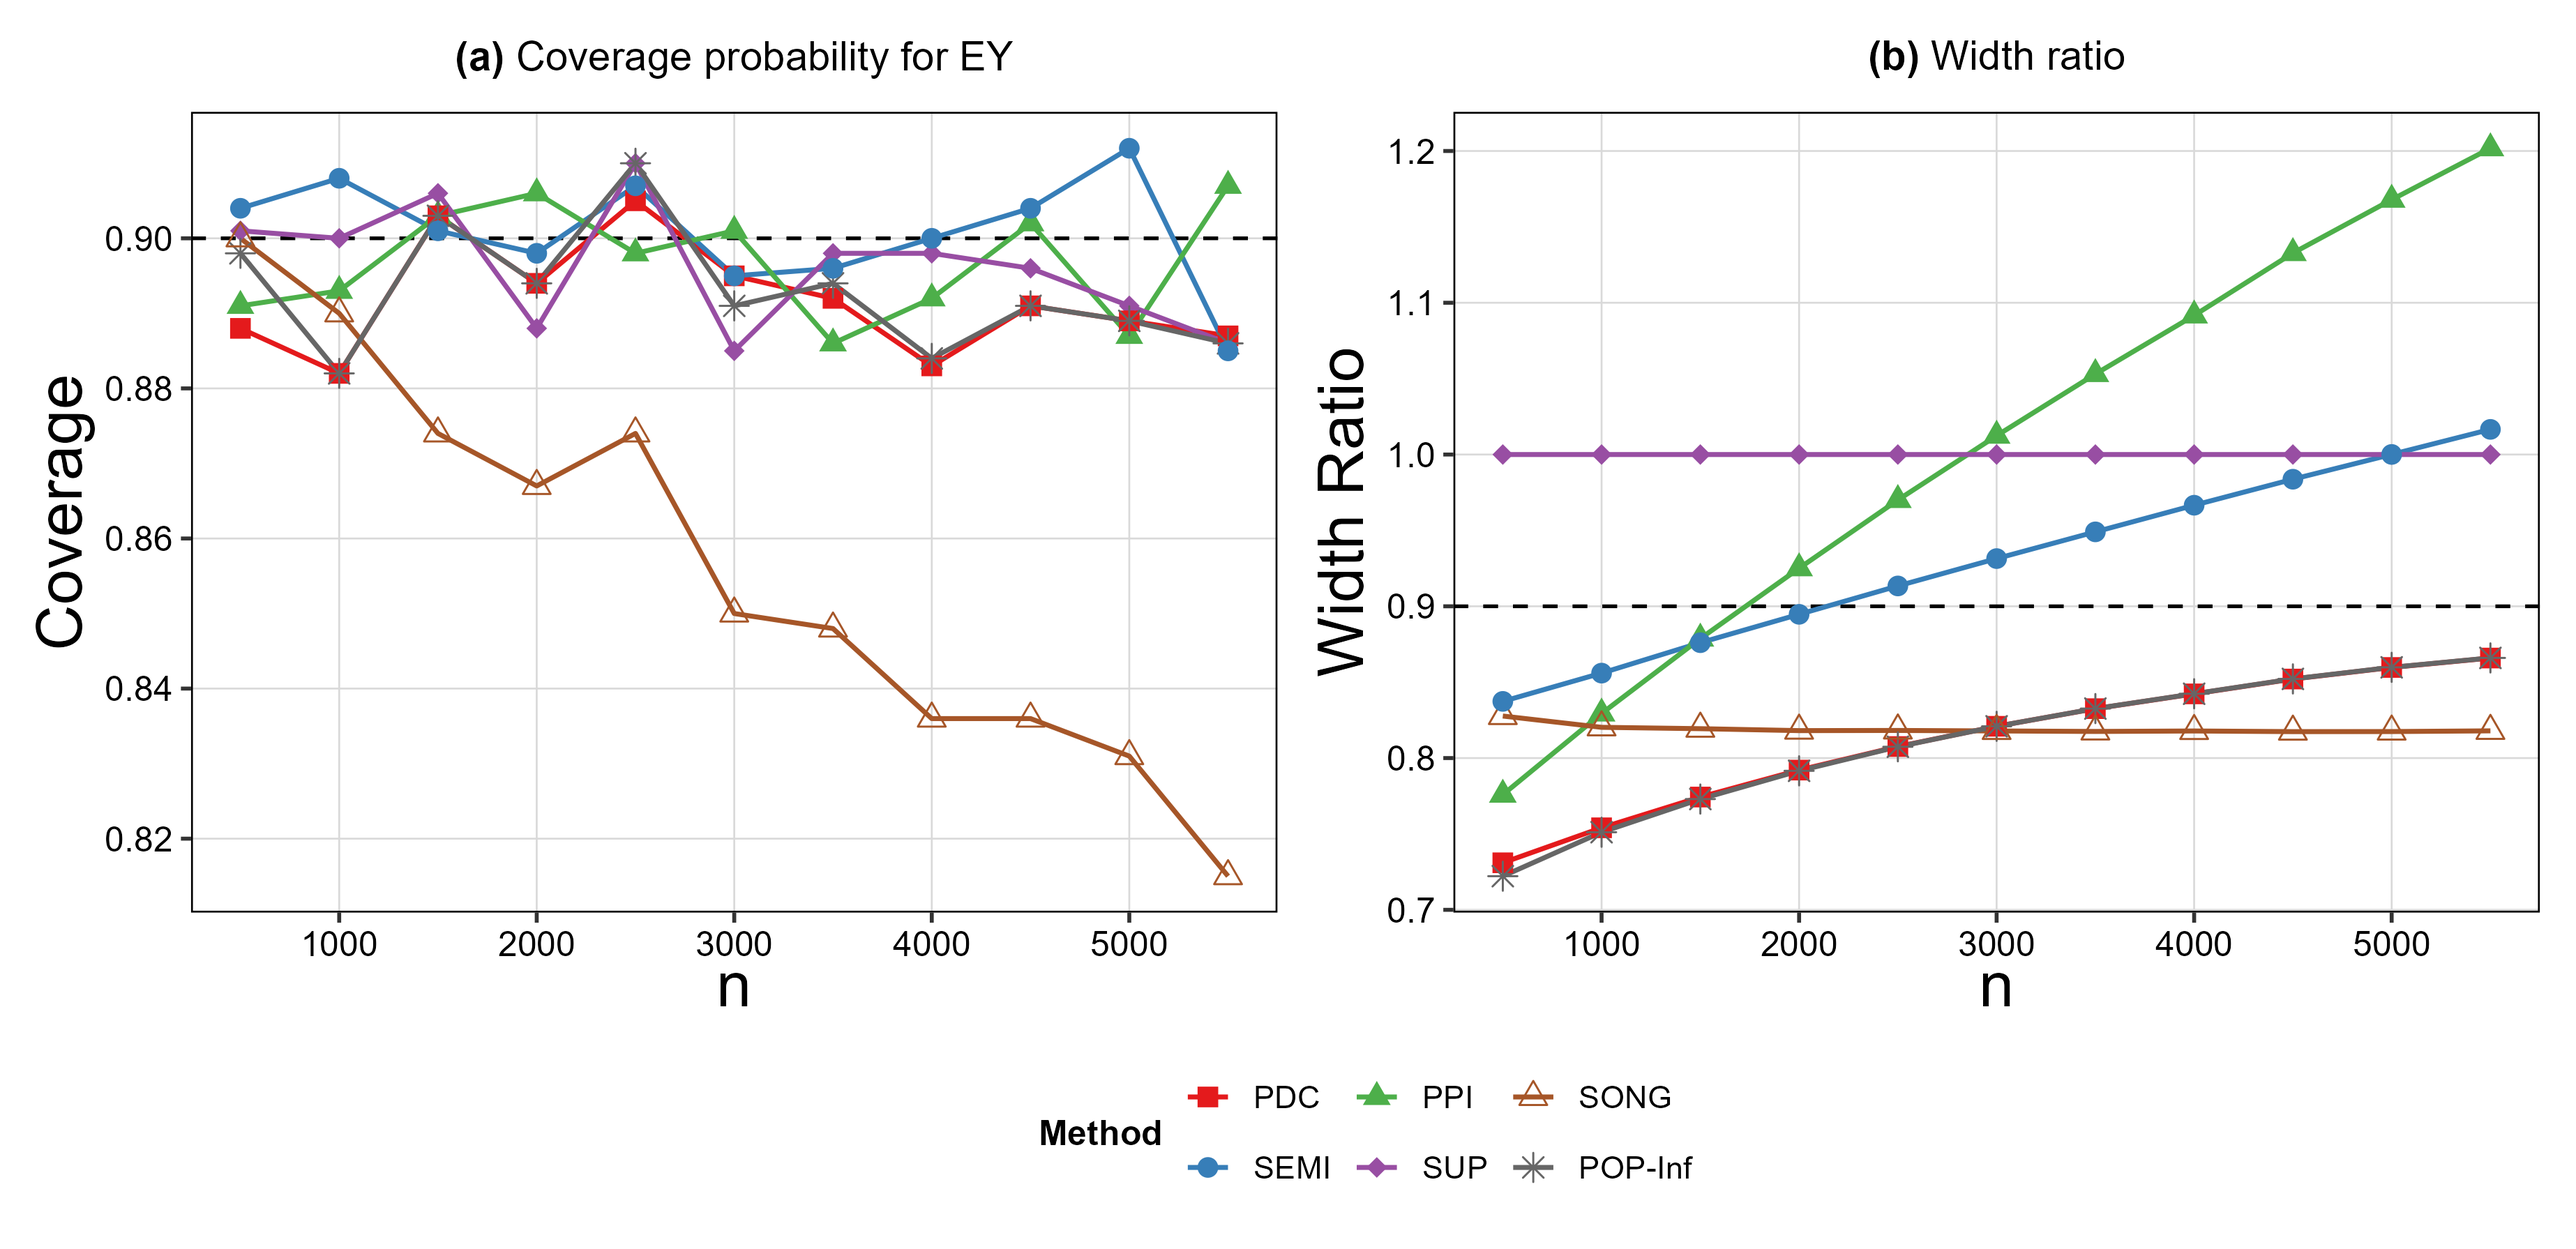
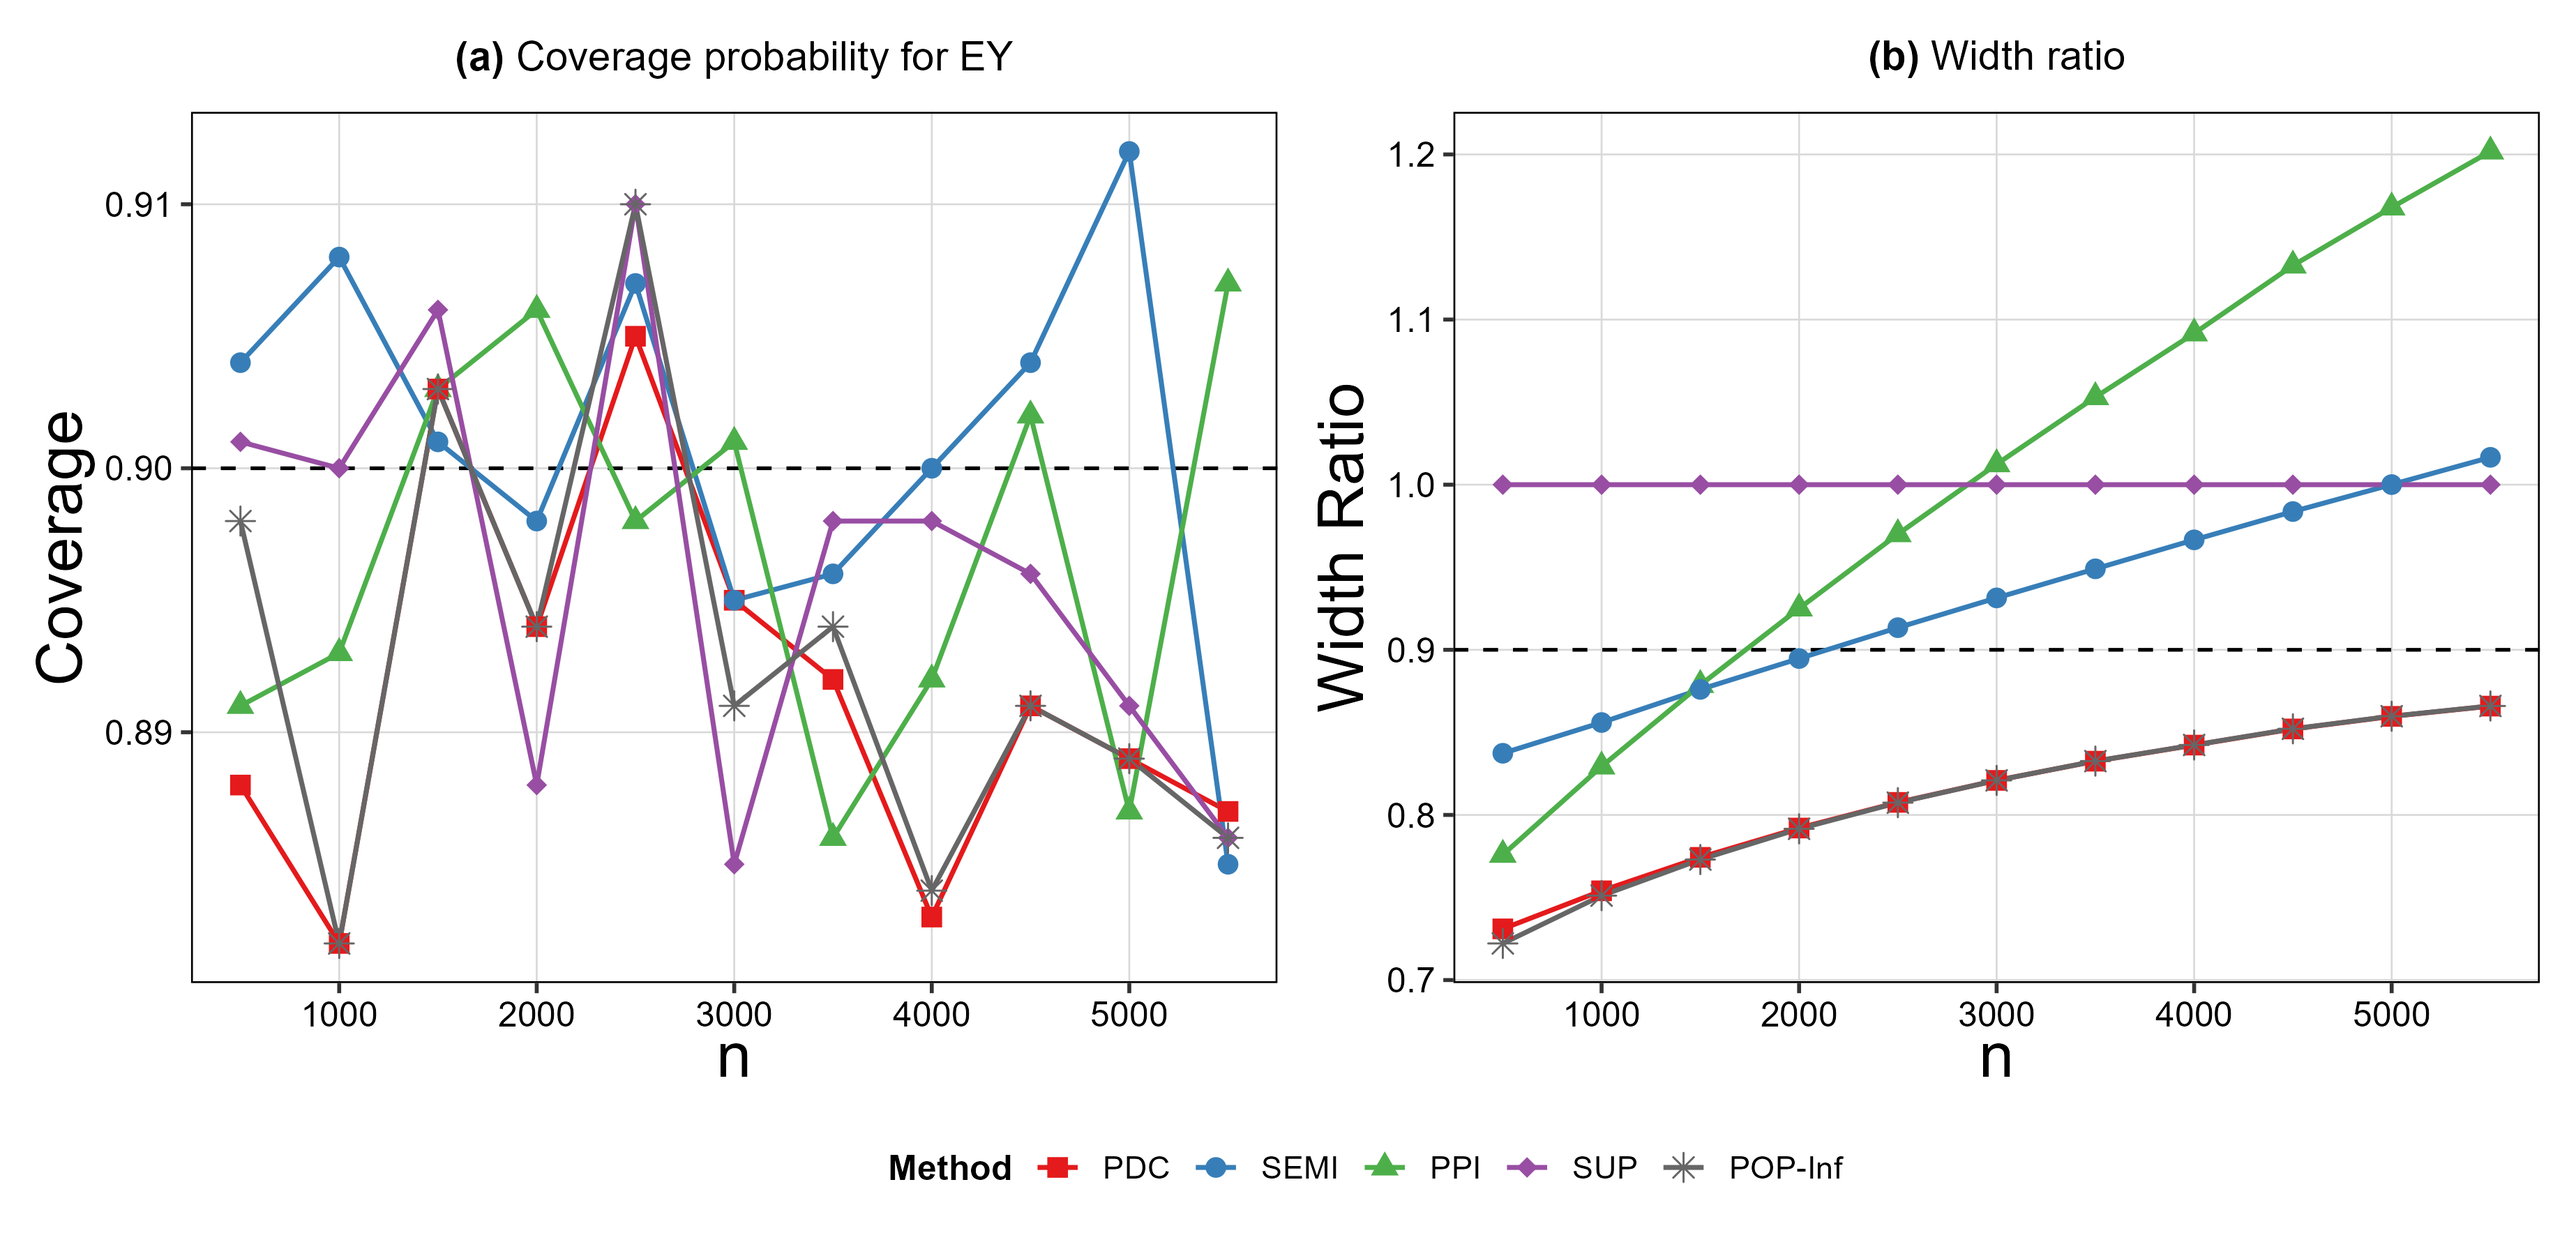
updating code to filter out Song results

diff --git a/tables/data-analysis.tex b/tables/data-analysis.tex
@@ -14,7 +14,6 @@ PDC & 11.412 & 0.255 & 0.974 & 0.881 & 0.267 & 1.057 & 0.230 & 0.277 & 0.990 \\
 PPI++ & 11.432 & 0.258 & 0.985 & 0.861 & 0.271 & 1.073 & 0.229 & 0.280 & 1.000 \\
 PPI & 11.310 & 0.452 & 1.728 & 0.484 & 1.682 & 6.669 & 1.232 & 2.014 & 7.201 \\
 POP-Inf & 11.426 & 0.257 & 0.984 & 0.859 & 0.278 & 1.102 & 0.208 & \textbf{0.236} & \textbf{0.845} \\
-Song & 11.598 & \textbf{0.245} & \textbf{0.936} & 0.913 & \textbf{0.254} & \textbf{1.007} & 0.192 & \textbf{0.237} & \textbf{0.848} \\
 CC & 11.383 & \textbf{0.249} & \textbf{0.951} & 0.924 & 0.287 & 1.139 & 0.262 & \textbf{0.271} & \textbf{0.970} \\
 \bottomrule
 \end{tabular}
